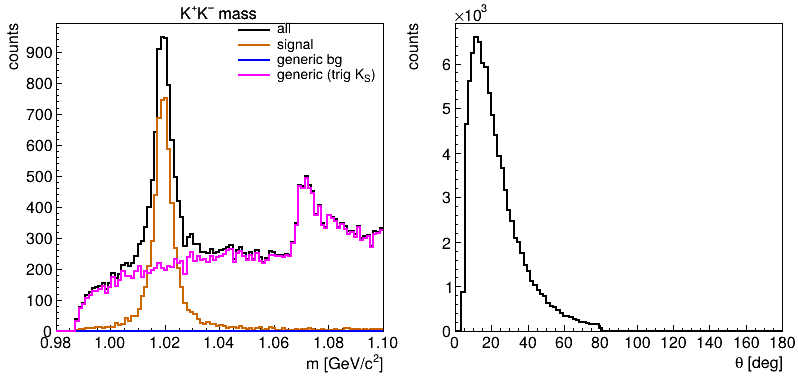
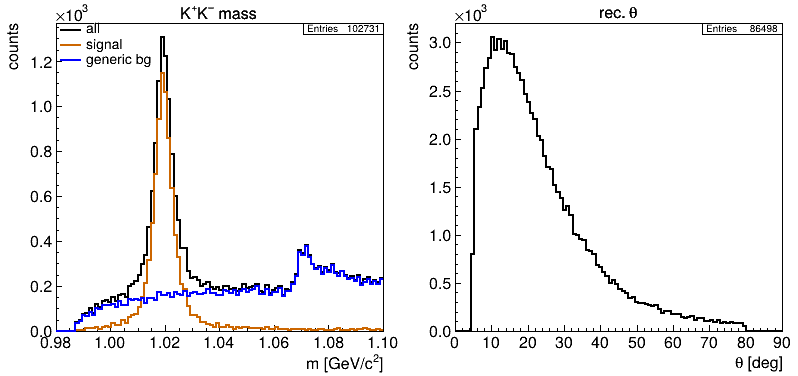
Update doc

diff --git a/doc/Demos.md b/doc/Demos.md
@@ -258,8 +258,8 @@ As already being addressed in [Configuration Setup - Using Variables](Configurat
 As an example let us consider the following config-file to learn the opportunities. It is a slight variation of the above background demo.
 ```
 01: # ===== Overall options ===== 
-02: OPT  ;;  rndseed=1 : verbose=1 : hconf=400,3 : nostat : legwid=0.38 : nmc : $thtrng=20,160 
-03: OPT  ;;  $userhist={tree=nmc : var=p : hist=0,10 : title=gen. mom;p [GeV/c]} : $ecm=4.6 : $frac=0.2 : $bgopt=
+02: OPT  ;;  rndseed=1 : verbose=1 : hconf=400,3 : nmc : $thtrng=20,160 : $ecm=4.6 : $frac=0.1 : ...
+03:          $userhist={tree=nmc : var=p : hist=0,10 : title=gen. mom;p [GeV/c]} : $bgopt=
 04: 
 05: # ===== Generators ===== 
 06: GEN  ;;  phsp : ecm=$ecm : reaction=anti-p-, p+ : fixtarget
@@ -274,12 +274,11 @@ As an example let us consider the following config-file to learn the opportuniti
 15: REC  ;;  dec= phi -> K+ K- : store(phi,ntp1) = evt,cand
 16: 
 17: # ===== Histograms ===== 
-18: HIST ;;  tree=ntp1 : hist=0.98,1.1 : title=K^{+}K^{\minus} mass;m [GeV/c^{2}] : leg=all : legpos=tr
-19: HIST ;;  cut=chan==1 : leg=signal
-20: HIST ;;  cut=chan>1 && chan<9999 : leg=generic bg
-21: HIST ;;  cut=chan>9999 : leg=generic (trig K\lower[0.4]{\scale[0.7]{S}})
-22: 
-23: HIST ;;  $userhist
+18: HIST ;;  tree=ntp1 : hist=0.98,1.1 : title=K^{+}K^{\minus} mass;m [GeV/c^{2}] : leg=all 
+19: HIST ;;  cut=chan==1   : leg=signal
+20: HIST ;;  cut=chan>9999 : leg=generic bg
+21: 
+22: HIST ;;  $userhist
 ```
 _Explanation:_
 * (02-03) : Overall options and variables definition; we would like to control several settings per command line.
@@ -300,9 +299,8 @@ HIST ;;  tree=nmc : var=p : hist=0,10 : title=gen. mom;p [GeV/c]
 
 When calling as
 ```
-root [9] HFS(20000, "cfg/demo_var.cfg", "$ecm=5 : $thtrng=5,80 :"
-                    "$userhist={tree=ntp0:var=xtht*57.3:hist=0,180:title=;\\theta [deg]} :"
-                    "$bgopt=trig=K_S0 : $frac=0.1")
+root [9] HFS(20000, "cfg/demo_var.cfg", "$ecm=5 : $thtrng=5,80 : $bgopt=trig=K_S0 : $frac=0.2"
+                    "$userhist={tree=ntp0:var=xtht*57.3:hist=0,90:title=rec. \\theta;\\theta [deg]}")
 ```
 we get
 ```

diff --git a/doc/Tools.md b/doc/Tools.md
@@ -149,12 +149,11 @@ like pointed out in [this section](ConfigurationSetup.md#pid-particle-identifica
 ## Histogram Drawing - HepDrawHistos.C
 [Back to TOC](#table-of-contents)
 
-The macro `HepDrawHistos.C` offers an easy way to plot a bunch of histograms from a ROOT `TTree`. In particular it simply re-draws live histograms from a simulation job based on the output file and the configuration file containing the `HIST` statements. The macro expects up to four input parameters `HepDrawHistos.C(cfg, file, width, stat)`
+The macro `HepDrawHistos.C` offers an easy way to plot a bunch of histograms from a ROOT `TTree`. In particular it simply re-draws live histograms from a simulation job based on the output file and the configuration file containing the `HIST` statements. The macro expects up to three input parameters `HepDrawHistos(cfg, file, opt) `
 
-* `cfg`: name of the config file with the histogram definitions; see [HIST section](ConfigurationSetup.md#hist---live-histograms) for details
-* `file`: input ROOT file name containing the `TTrees` to plot the histograms (auto-generated from cfg-file if not specified)
-* `width`: width of pads; default: 450
-* `stat`: configuration code for statistic box; default: 10
+* `cfg`: config file name (`.cfg`) for given analysis file; see [HIST section](ConfigurationSetup.md#hist---live-histograms) for details
+* `file`: analysis file name (.root); can be skipped if standard name `ana_<cfg>.root`
+* `opt`: string with formatting options (`stat, hconf, hopt, legtxt, legwid, legmarg, legpos, nostat, noleg`)
 
 For example, if we would like to re-draw the plots from the simulation corresponding to `cfg/demo_mini.cfg`, we just need to execute
 
